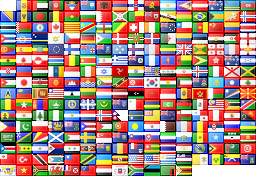
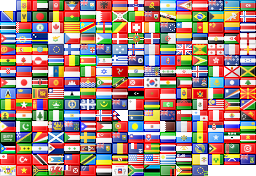
Add eu1 and eu2

Changed region(s): [[0.75, 0.9375, 0.8125, 1.0], [0.5, 0.1136, 0.5625, 0.1989]]

diff --git a/enhancedsteam.js b/enhancedsteam.js
@@ -2982,7 +2982,7 @@ function show_regional_pricing() {
 		if (settings.showregionalprice != "off") {
 			var api_url = "http://store.steampowered.com/api/packagedetails/";
 			var appid = get_appid(window.location.href);
-			var countries = ["us","gb","fr","hu","ro","br","ru","au","jp","mx"];
+			var countries = ["us","gb","eu1","eu2","ru","br"];
 			var pricing_div = "<div class='es_regional_container'></div>";
 			var world = chrome.extension.getURL("img/flags/world.png");
 			var currency_deferred = [];
@@ -3072,12 +3072,23 @@ function show_regional_pricing() {
 			if(subid_array.length>0){
 				subids_csv=subid_array.join();
 				$.each(countries,function(index,country){
+					switch (country) {
+						case "eu1":
+							cc="fr";
+							break;
+						case "eu2":
+							cc="it";
+							break;
+						default:
+							cc=country;
+							break;
+					}
 					currency_deferred.push(
 						$.ajax({
 							url:api_url,
 							data:{
 								packageids:subids_csv,
-								cc:country
+								cc:cc
 							}
 						}).done(function(data){
 							$.each(subid_info,function(subid_index,package_info){

diff --git a/css/es_flags.css b/css/es_flags.css
@@ -70,7 +70,7 @@
 .es_flag.es_flag_er {background-position: 0 -44px}
 .es_flag.es_flag_es {background-position: -16px -44px}
 .es_flag.es_flag_et {background-position: -32px -44px}
-.es_flag.es_flag_eu {background-position: -48px -44px}
+.es_flag.es_flag_eu1 {background-position: -48px -44px}
 .es_flag.es_flag_fi {background-position: -64px -44px}
 .es_flag.es_flag_fj {background-position: -80px -44px}
 .es_flag.es_flag_fk {background-position: -96px -44px}
@@ -255,3 +255,4 @@
 .es_flag.es_flag_zanzibar {background-position: -144px -165px}
 .es_flag.es_flag_zm {background-position: -160px -165px}
 .es_flag.es_flag_zw {background-position: -176px -165px}
+.es_flag.es_flag_eu2 {background-position: -192px -165px}
